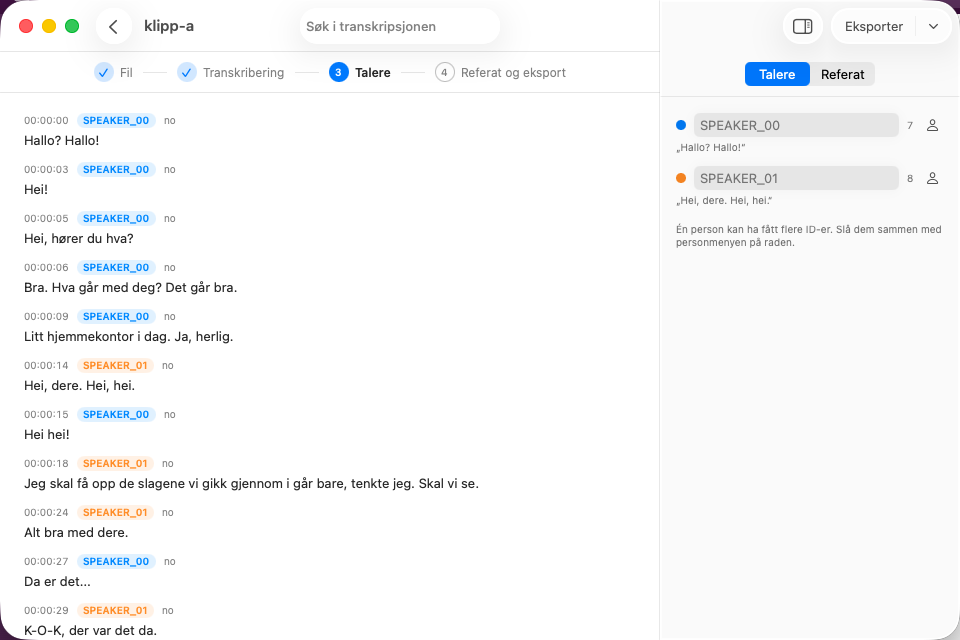
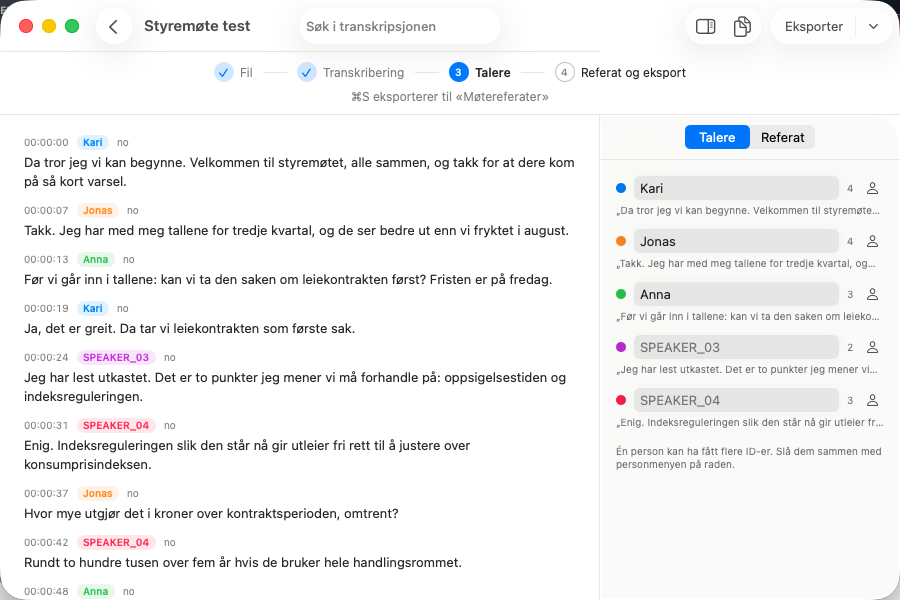
README: skjermbildene følger den nye editoren, og Referat-fanen vises
docs/speakers.png er tatt på nytt med arbeidsflytlinja over begge kolonnene
og statuslinja under den; tre talere navngitt, to igjen som ID. Nytt
docs/summary.png viser Referat-fanen med linja som sier hvor transkripsjonen
sendes — det er personvernsignalet fra #40, og det hører hjemme i README.
Teksten sier nå at Talere og Referat kan byttes fritt etter
transkriberingen, og at ollama kan stå på en annen maskin.

Syntetisk styremøte med generert lyd; ingen ekte opptak.

Claude-Session: https://claude.ai/code/session_019TT6uXYtYBf9CpDHxaysdn

diff --git a/README.md b/README.md
@@ -180,7 +180,9 @@ Two buttons check the two halves — the install and the token:
 
 The window walks through four steps — **Fil · Transkribering · Talere ·
 Referat og eksport** — and a line at the top shows which one you are on.
-Finished steps can be clicked to go back.
+Finished steps can be clicked to go back, and once the transcription is done
+**Talere** and **Referat** are two sides of the same result: click either one
+to switch.
 
 1. Drop an audio or video file anywhere in the window, or pick one with
    **Velg fil…** (⌘O). Schous is also listed under **Open With** in Finder, and
@@ -251,6 +253,17 @@ summary into the window and writes it next to the transcript as
 `<file>.<template>.md`. When it is done, the summary is rendered (headings,
 lists, checkboxes); **Kopier referat** in the toolbar copies the Markdown.
 
+![The Referat tab: title, template, model, language and context; under the
+model picker a line says where the transcript is sent, here a cloud model
+forwarded to ollama.com](docs/summary.png)
+
+The line under the model picker is the privacy signal. Transcription never
+leaves the Mac, but the summary goes wherever the chosen model runs: a local
+model says «Kjører lokalt på denne Macen»; a cloud model (ollama marks them
+with `remote_host`, the picker with «· sky») says the transcript and context
+are sent to ollama.com; a remote ollama server says they are sent to that
+host, whatever the model.
+
 While the model is reading the transcript nothing arrives from ollama, so the
 status says so — «Modellen leser transkripsjonen (7 716 ord) · tar vanligvis
 ca. 5 min på denne maskinen» — with the estimate taken from the previous run
@@ -262,8 +275,9 @@ file name is the template name. Three are installed on first use (Customer
 Call, Discovery interview, Stand-Up); edit them or add your own. The prompt
 that wraps the template is editable in Settings.
 
-Requires [ollama](https://ollama.com) running locally with at least one model
-pulled. Settings lists the models it finds. A transcript of an hour-long
+Requires [ollama](https://ollama.com) with at least one model pulled — on this
+Mac by default, or on another machine if you change the URL in Settings.
+Settings lists the models it finds. A transcript of an hour-long
 meeting is a single call — no chunking. Measured on an 8.8k-word transcript
 (~18k tokens) with `qwen3.8:27b-mlx` on an M5: on a cold model about two
 minutes pass before the first word, because the model has to load and read the
